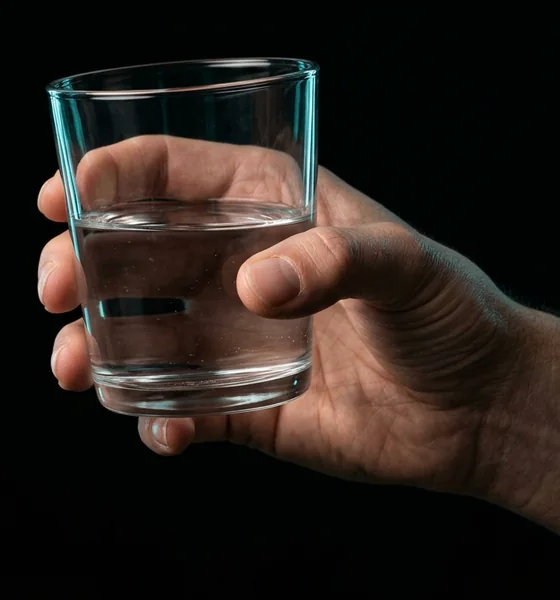
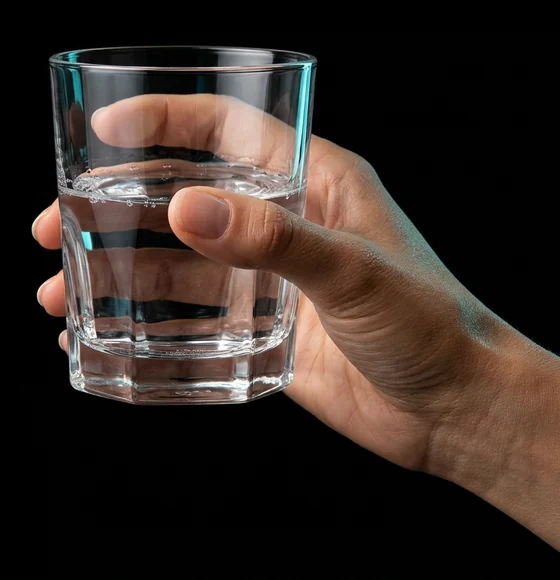
World Model tour: sharper photoreal hand v2 + cache-busting asset versions

diff --git a/davies-assets/js/world-model-tour.js b/davies-assets/js/world-model-tour.js
@@ -253,16 +253,16 @@
     <svg class="wmt-glass" viewBox="0 0 560 300" aria-hidden="true">
       <defs>
         <radialGradient id="wmtHandFade" cx="50%" cy="50%" r="50%">
-          <stop offset="62%" stop-color="#fff"/>
+          <stop offset="74%" stop-color="#fff"/>
           <stop offset="100%" stop-color="#000"/>
         </radialGradient>
-        <mask id="wmtHandMask"><rect x="0" y="14" width="262" height="281" fill="url(#wmtHandFade)"/></mask>
+        <mask id="wmtHandMask"><rect x="4" y="34" width="256" height="240" fill="url(#wmtHandFade)"/></mask>
       </defs>
       <g class="wmt-real">
-        <image class="wmt-hand-photo" href="davies-assets/images/world-model/hand-glass.webp" x="0" y="14" width="262" height="281"
+        <image class="wmt-hand-photo" href="davies-assets/images/world-model/hand-glass.webp?v=2" x="4" y="34" width="256" height="240"
                preserveAspectRatio="xMidYMid slice" mask="url(#wmtHandMask)"/>
-        <text x="110" y="34" text-anchor="middle" class="wmt-svg-cap">지금 내 손</text>
-        <text x="110" y="284" text-anchor="middle" class="wmt-svg-note">아직 놓지 않았어요</text>
+        <text x="120" y="22" text-anchor="middle" class="wmt-svg-cap">지금 내 손</text>
+        <text x="120" y="290" text-anchor="middle" class="wmt-svg-note">아직 놓지 않았어요</text>
       </g>
       <g class="wmt-think">
         <circle cx="222" cy="104" r="4"/><circle cx="240" cy="82" r="6"/><circle cx="262" cy="60" r="8"/>

diff --git a/davies.html b/davies.html
@@ -20,8 +20,8 @@
     <link rel="stylesheet" href="davies-assets/css/bootstrap.min.css">
     <link rel="stylesheet" href="davies-assets/css/swiper-bundle.min.css">
     <link rel="stylesheet" href="davies-assets/css/animate.css">
-    <link rel="stylesheet" href="davies-assets/css/nova-assistant.css">
-    <link rel="stylesheet" href="davies-assets/css/world-model-tour.css">
+    <link rel="stylesheet" href="davies-assets/css/nova-assistant.css?v=20261022">
+    <link rel="stylesheet" href="davies-assets/css/world-model-tour.css?v=20261022">
     <link rel="stylesheet" href="davies-assets/css/odometer.min.css">
     <link rel="stylesheet" href="davies-assets/css/slick.css">
     <link rel="stylesheet" href="davies-assets/css/slick.theme.css">
@@ -5345,9 +5345,9 @@
       });
     </script>
     <!-- World Labs Nova AI Voice Assistant -->
-    <script src="davies-assets/js/gemini-live.js"></script>
-    <script src="davies-assets/js/voice-assistant.js"></script>
-    <script src="davies-assets/js/world-model-tour.js"></script>
+    <script src="davies-assets/js/gemini-live.js?v=20261022"></script>
+    <script src="davies-assets/js/voice-assistant.js?v=20261022"></script>
+    <script src="davies-assets/js/world-model-tour.js?v=20261022"></script>
     <!-- Fixed header: compact + backdrop once scrolled -->
     <script>
       (function () {
